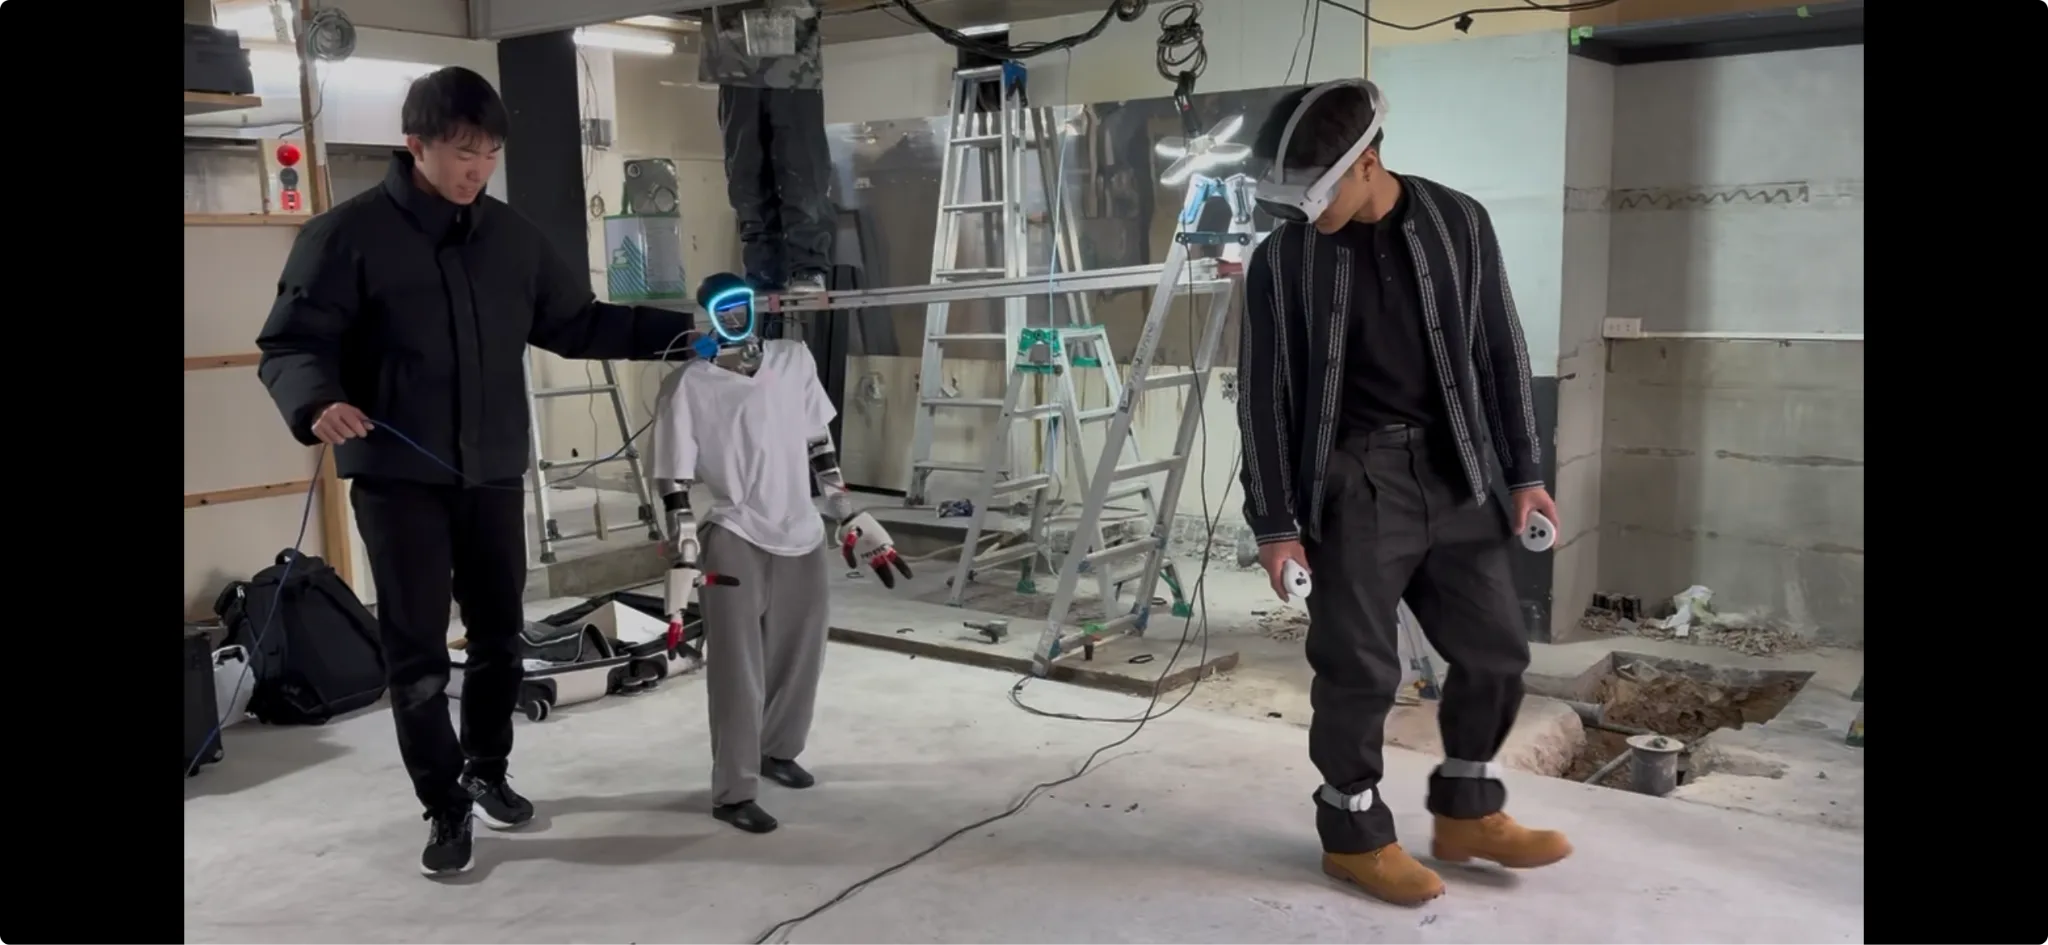
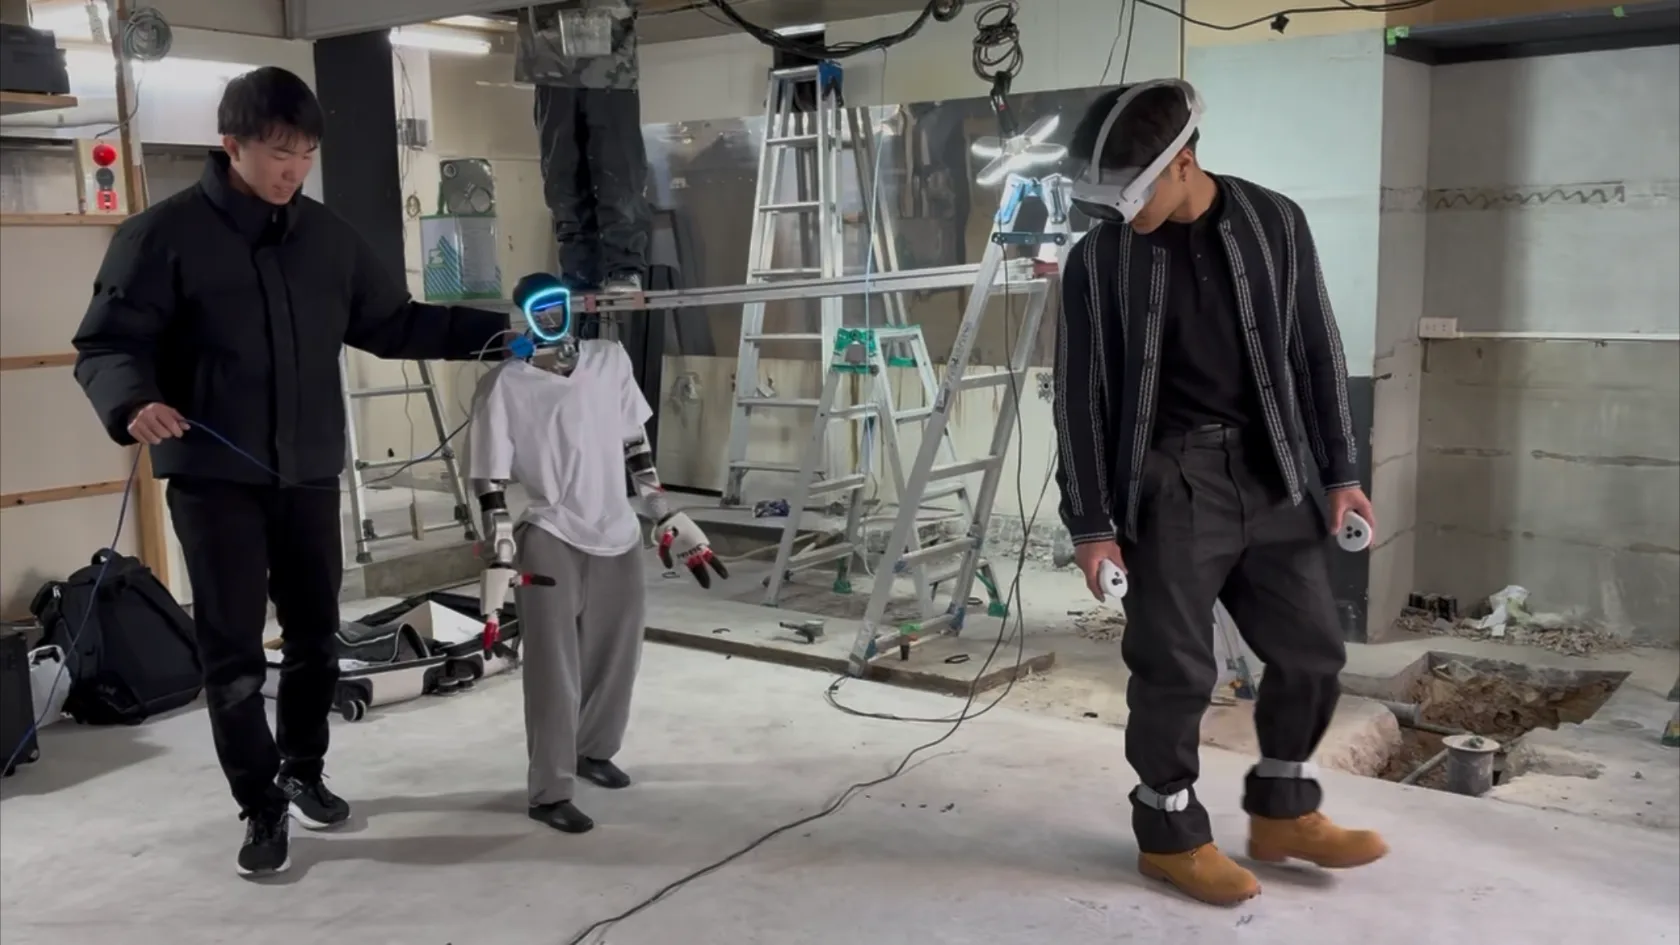
feat: update OG image to VR teleop photo, trim letterbox from hero
- og-image.webp → og-image-teleop.webp (1200x630, new URL busts scraper caches)
- hero webp regenerated without the 184px black side bars baked into the deck PNG

diff --git a/index.html b/index.html
@@ -12,14 +12,14 @@
     <meta property="og:url" content="https://orboh.com/" />
     <meta property="og:title" content="Orboh – Forward Deployed Engineers for Humanoid Robots" />
     <meta property="og:description" content="Orboh is the humanoid FDE (Forward Deployed Engineer). Our engineers embed at construction and manufacturing sites, narrow the task, fix the workflow, and implement humanoid robots — as a service, with no CapEx." />
-    <meta property="og:image" content="https://orboh.com/og-image.webp" />
+    <meta property="og:image" content="https://orboh.com/og-image-teleop.webp" />
 
     <!-- Twitter / X -->
     <meta name="twitter:card" content="summary_large_image" />
     <meta name="twitter:url" content="https://orboh.com/" />
     <meta name="twitter:title" content="Orboh – Forward Deployed Engineers for Humanoid Robots" />
     <meta name="twitter:description" content="Orboh is the humanoid FDE (Forward Deployed Engineer). Our engineers embed at construction and manufacturing sites, narrow the task, fix the workflow, and implement humanoid robots — as a service, with no CapEx." />
-    <meta name="twitter:image" content="https://orboh.com/og-image.webp" />
+    <meta name="twitter:image" content="https://orboh.com/og-image-teleop.webp" />
 
     <link rel="preconnect" href="https://fonts.googleapis.com" />
     <link rel="preconnect" href="https://fonts.gstatic.com" crossorigin />
